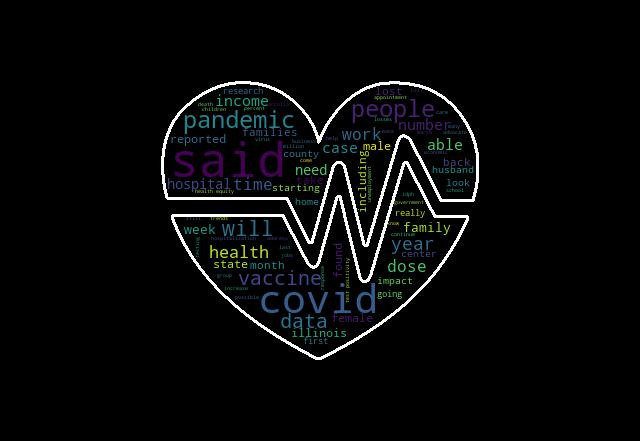
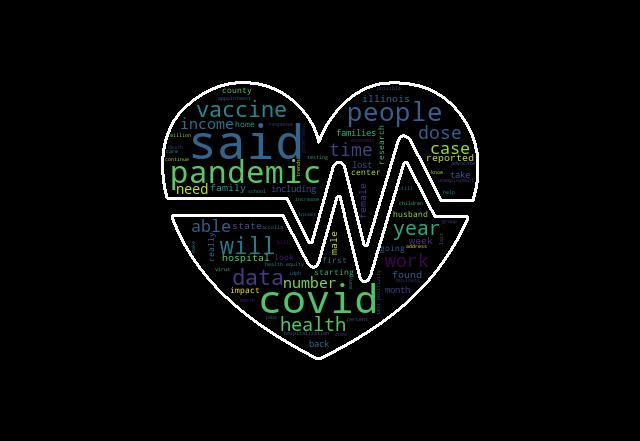
move to flask

Changed region(s): [[0.25, 0.1769, 0.75, 0.7959]]

diff --git a/templates/wordcloud.html b/templates/wordcloud.html
@@ -3,8 +3,9 @@
 <head>
     <title>Word Cloud</title>
     <script src="https://unpkg.com/axios/dist/axios.min.js"></script>
-    <script src="wordcloud.js"></script>
-    <link rel="stylesheet" href="wordcloud.css">
+    <script src="{{ url_for('static', filename='js/wordcloud.js')}}"></script>
+    <link rel="stylesheet" href="{{url_for('static', filename='css/wordcloud.css')}}">
+    <!-- <link rel="stylesheet" href="wordcloud.css"> -->
     <link rel="stylesheet" type="text/css" href="https://fonts.googleapis.com/css?family=Raleway" />
 </head>
 <body>
@@ -26,6 +27,7 @@
                 <option disabled selected value>-- select an option --</option>
                 <option value="omar">omar</option>
                 <option value="ishika">ishika</option>
+                <option value="fashion">fashion</option>
             </select>
         </div>
         <!-- <div class="setting&#45;item"> -->
@@ -54,7 +56,7 @@
     </div>
     <br/>
     <div class="center">
-        <img id="wordcloudimg" src="placeholder.jpg" class="wordcloud" alt="Word Cloud Image">
+        <img id="wordcloudimg" src="{{url_for('static', filename='img/placeholder.jpg')}}" class="wordcloud" alt="Word Cloud Image">
         <h2 id="caption">topic</h2>
     </div>
 </body>

diff --git a/static/js/wordcloud.js b/static/js/wordcloud.js
@@ -1,10 +1,14 @@
-function getWordCloudURL(topic, numWords, color) {
-    var url = topic+".jpg";
-    axios.post('localhost:8080', {
-        topic: topic,
-        numWords: numWords,
-        color: color
+function setWordCloudURL(topic, numWords, color) {
+    var url = "img/"+topic+".jpg";
+    axios.get('http://localhost:5000/cloud', {
+        params: {
+            topic: topic,
+            numWords: numWords,
+            color: color
+        }
     }).then(function (response) {
+        var img = document.getElementById('wordcloudimg');
+        img.src = response.data;
         console.log(response);
     }).catch(function (error) {
         console.error(error);
@@ -19,7 +23,7 @@ function updateWordCloud() {
     var numWords = document.getElementById("num-words").value;
     var color = document.getElementById("color").checked;
     var img = document.getElementById('wordcloudimg');
-    img.src = getWordCloudURL(topic, numWords, color);
+    setWordCloudURL(topic, numWords, color);
     img.alt = "Word Cloud of " + topic;
     var caption = document.getElementById('caption');
     caption.innerHTML = "Wordcloud of " + topic;

diff --git a/wordc.py b/wordc.py
@@ -10,41 +10,40 @@ import random
 def grey_color_func(word, font_size, position, orientation, random_state=None, **kwargs):
     return "hsl(0, 0%%, %d%%)" % random.randint(60, 100)
 
-d = path.dirname(__file__) if "__file__" in locals() else os.getcwd()
+def wordc(name="wordcloud_created", topic="covid", user_max=80, color=False):
+    d = path.dirname(__file__) if "__file__" in locals() else os.getcwd()
+    img_path = path.join(d, "static/img")
+    user_topic="empty.txt"
+    if (topic == 'politics'):
+        user_topic = 'politics.txt'
+        user_mask = 'wolfstencil.jpg'
+    elif (topic == 'gaming'):
+        user_topic = 'Gaming.txt'
+        user_mask = 'controller.png'
+    elif (topic == 'fashion'):
+        user_topic = 'Fashion.txt' 
+        user_mask = 'dress.jpg'
+    elif (topic == 'sports'):
+        user_topic = 'sports.txt' 
+        user_mask = 'football.jpg'
+    elif (topic == 'covid'):
+        user_topic = 'covid.txt'
+        user_mask = 'heart.png'
 
-#get user's topic choice from frontend
-topic = 'covid'
+    text = open(path.join(d, user_topic)).read()
 
-if (topic == 'politics'):
-    user_topic = 'politics.txt'
-    user_mask = 'wolfstencil.jpg'
-elif (topic == 'gaming'):
-    user_topic = 'Gaming.txt'
-    user_mask = 'controller.png'
-elif (topic == 'fashion'):
-    user_topic = 'Fashion.txt' 
-    user_mask = 'dress.jpg'
-elif (topic == 'sports'):
-    user_topic = 'sports.txt' 
-    user_mask = 'football.jpg'
-elif (topic == 'covid'):
-    user_topic = 'covid.txt'
-    user_mask = 'heart.png'
+    cloud_mask = np.array(Image.open(path.join(img_path, user_mask)))
+    wordcloud = WordCloud(mask=cloud_mask, contour_width=3, contour_color='white', max_words=user_max, min_word_length=4).generate(text)
+    url = path.join(img_path, f"{name}.jpg")
+    wordcloud.to_file(url)
 
-#get user's color preference (black/white or color)
-#get user's max words
-user_max = 80
-color = False #true for color, false for gray scale
+    return wordcloud, url
 
-text = open(path.join(d, user_topic)).read()
-
-cloud_mask = np.array(Image.open(path.join(d, user_mask)))
-wordcloud = WordCloud(mask=cloud_mask, contour_width=3, contour_color='white', max_words=user_max, min_word_length=4).generate(text)
-wordcloud.to_file(path.join(d, "wordcloud_created.jpg"))
-
-if (not color):
-    plt.imshow(wordcloud.recolor(color_func=grey_color_func, random_state=3), interpolation='bilinear')
-else:
-    plt.imshow(wordcloud.recolor(color_func=None), interpolation='bilinear')
-plt.axis("off")
-plt.show()
+if __name__ == '__main__':
+    wordcloud = wordc()[0]
+    if (not color):
+        plt.imshow(wordcloud.recolor(color_func=grey_color_func, random_state=3), interpolation='bilinear')
+    else:
+        plt.imshow(wordcloud.recolor(color_func=None), interpolation='bilinear')
+    plt.axis("off")
+    plt.show()

diff --git a/app.py b/app.py
@@ -1,0 +1,33 @@
+from flask import Flask, request, send_from_directory, render_template, jsonify
+from flask_cors import CORS
+from wordc import wordc
+app = Flask(__name__, static_url_path='')
+CORS(app)
+
+@app.route('/')
+def index():
+    return render_template("wordcloud.html")
+
+@app.route('/cloud', methods=['GET'])
+def cloud():
+    if request.method == 'GET':
+        print(request.args, request.args['topic'])
+        try:
+            user_max = int(request.args['numWords'])
+        except ValueError:
+            user_max = 80
+        wordc(name=request.args['topic'], 
+                topic=request.args['topic'], 
+                user_max=user_max,
+                color=bool(request.args['color']))
+        return f"img/{request.args['topic']}.jpg"
+# def root():
+#     return app.send_static_file('wordcloud.html')
+
+# @app.route('/<path:path>')
+# def send_path(path):
+#     return app.send_static_file(path)
+
+if __name__ == '__main__':
+    app.run()
+
